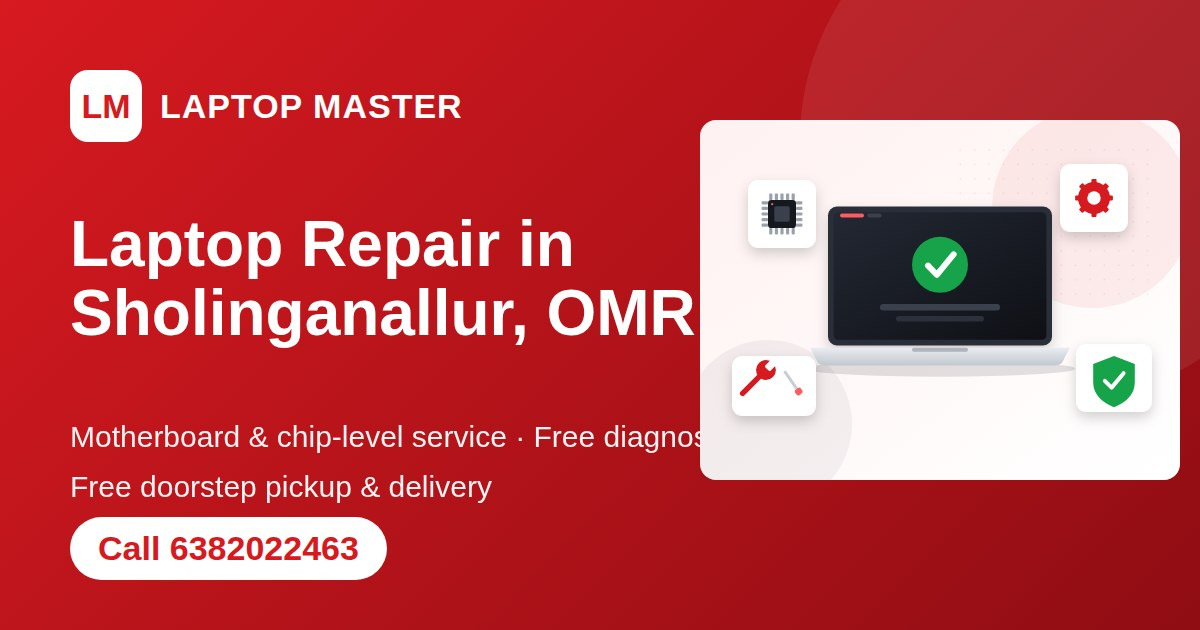
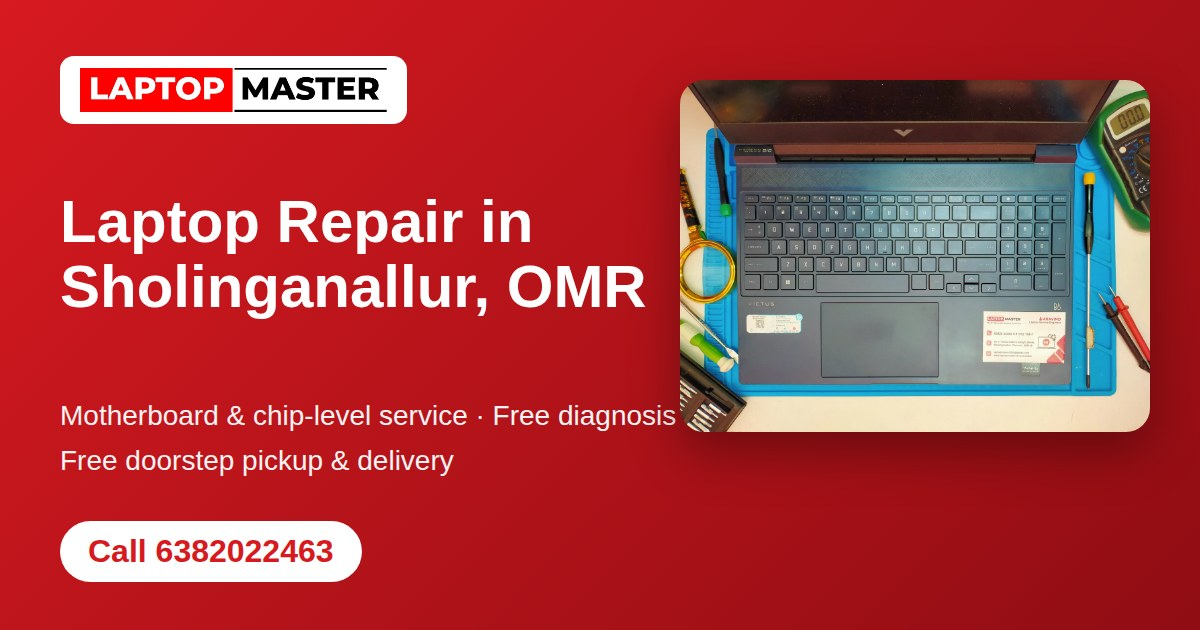
V8.1

diff --git a/index.html b/index.html
@@ -37,7 +37,7 @@
   <meta name="twitter:image" content="https://laptopmasterservice.com/images/og-image.jpg">
 
   <!-- Styles -->
-  <link rel="preload" as="image" href="images/illus-hero.svg" fetchpriority="high">
+  <link rel="preload" as="image" href="images/hero-workbench.webp" fetchpriority="high">
   <link rel="stylesheet" href="style.css">
 
   <!-- Favicon -->
@@ -179,14 +179,7 @@
     <div class="container nav-wrap">
 
       <a class="brand" href="#home" aria-label="LAPTOP MASTER Home">
-
-        <span class="brand-mark">LM</span>
-
-        <span>
-          <strong>LAPTOP MASTER</strong>
-          <small>LAPTOP & COMPUTER SERVICE</small>
-        </span>
-
+        <img class="brand-logo" src="images/logo.webp" alt="LAPTOP MASTER" width="1200" height="172">
       </a>
 
       <button
@@ -323,10 +316,10 @@
         <div class="hero-visual">
 
           <img
-            src="images/illus-hero.svg"
-            alt="Illustration of a repaired laptop with a green check mark, chip, gear and shield icons"
-            width="1200"
-            height="900"
+            src="images/hero-workbench.webp"
+            alt="Laptop opened on the LAPTOP MASTER repair mat with diagnostic tools in Sholinganallur"
+            width="1400"
+            height="1050"
             fetchpriority="high"
             decoding="async"
           >
@@ -981,7 +974,7 @@
           </h2>
 
           <p>
-            Real photos from LAPTOP MASTER showing our shop, laptop repair work and motherboard service.
+            Real photos from our workbench: diagnosis, motherboard testing, SSD and RAM upgrades and screen service.
           </p>
 
         </div>
@@ -990,36 +983,55 @@
         <div class="gallery-grid">
 
           <img
-            src="images/gallery-laptop-repair.webp"
+            src="images/gallery-laptop-internals.webp"
             width="1200"
             height="900"
-            alt="Laptop repair work at LAPTOP MASTER in Sholinganallur"
+            alt="Laptop opened for internal service on the LAPTOP MASTER repair mat"
             loading="lazy"
             decoding="async"
           >
 
           <img
-            src="images/gallery-motherboard.webp"
+            src="images/gallery-motherboard-testing.webp"
             width="1200"
             height="900"
-            alt="Laptop motherboard repair service at LAPTOP MASTER"
-            loading="lazy"
-            decoding="async"
-          >
-          <img
-            src="images/gallery-storefront-services.webp"
-            width="1200"
-            height="900"
-            alt="LAPTOP MASTER shop front listing laptop repair, chip level service, screen, battery, keyboard and data recovery"
+            alt="Motherboard fault testing with a multimeter and magnifier at LAPTOP MASTER"
             loading="lazy"
             decoding="async"
           >
 
           <img
-            src="images/gallery-shop-signboard.webp"
+            src="images/gallery-ssd-upgrade.webp"
             width="1200"
             height="900"
-            alt="LAPTOP MASTER Laptop Service Center signboard on Annai Indhira Gandhi Street, Sholinganallur"
+            alt="Installing a 2.5 inch SATA SSD upgrade in a laptop"
+            loading="lazy"
+            decoding="async"
+          >
+
+          <img
+            src="images/gallery-ram-upgrade.webp"
+            width="1200"
+            height="900"
+            alt="Laptop RAM upgrade being fitted by a LAPTOP MASTER technician"
+            loading="lazy"
+            decoding="async"
+          >
+
+          <img
+            src="images/gallery-screen-service.webp"
+            width="1200"
+            height="900"
+            alt="Laptop display panel removed for screen replacement service"
+            loading="lazy"
+            decoding="async"
+          >
+
+          <img
+            src="images/gallery-chip-level-probe.webp"
+            width="1200"
+            height="900"
+            alt="Chip-level diagnosis on a laptop motherboard with a test probe"
             loading="lazy"
             decoding="async"
           >

diff --git a/laptop-repair-sholinganallur/index.html b/laptop-repair-sholinganallur/index.html
@@ -26,7 +26,7 @@
   <meta name="twitter:description" content="Laptop repair in Sholinganallur, Chennai: motherboard, no power, no display, screen, battery, SSD and RAM. Free diagnosis and estimate. Open daily 9 AM–9 PM.">
   <meta name="twitter:image" content="https://laptopmasterservice.com/images/og-image.jpg">
 
-  <link rel="preload" as="image" href="/images/illus-repair.svg" fetchpriority="high">
+  <link rel="preload" as="image" href="/images/page-shop.webp" fetchpriority="high">
   <link rel="stylesheet" href="/style.css">
   <link rel="icon" href="/images/favicon.svg" type="image/svg+xml">
   <link rel="manifest" href="/site.webmanifest">
@@ -136,11 +136,7 @@
   <header class="site-header">
     <div class="container nav-wrap">
       <a class="brand" href="/" aria-label="LAPTOP MASTER Home">
-        <span class="brand-mark">LM</span>
-        <span>
-          <strong>LAPTOP MASTER</strong>
-          <small>LAPTOP &amp; COMPUTER SERVICE</small>
-        </span>
+        <img class="brand-logo" src="/images/logo.webp" alt="LAPTOP MASTER" width="1200" height="172">
       </a>
 
       <button class="menu-toggle" aria-label="Open menu" aria-expanded="false" aria-controls="site-nav">☰</button>
@@ -172,7 +168,7 @@
           </div>
         </div>
         <div>
-          <img src="/images/illus-repair.svg" width="1200" height="900" alt="Illustration of a laptop being repaired with a wrench and screwdriver" fetchpriority="high" decoding="async">
+          <img src="/images/page-shop.webp" width="1200" height="900" alt="LAPTOP MASTER service counter with the shop logo on a red wall in Sholinganallur" fetchpriority="high" decoding="async">
         </div>
       </div>
     </section>
@@ -222,14 +218,17 @@
     </section>
 
     <section class="section section-light">
-      <div class="container"><div class="prose">
-        <h2>Visit LAPTOP MASTER</h2>
-        <p>No 17 Annai Indhira Gandhi Street, Sholinganallur, Chennai 600119<br>Open daily, 9:00 AM – 9:00 PM</p>
-        <div class="hero-actions">
-          <a class="btn btn-primary" href="https://www.google.com/maps/search/?api=1&query=No+17+Annai+Indhira+Gandhi+Street%2C+Sholinganallur%2C+Chennai+600119" target="_blank" rel="noopener noreferrer">📍 Get Directions</a>
-          <a class="btn btn-outline-dark" href="https://maps.app.goo.gl/npWpCCzaKBLCYPFF9" target="_blank" rel="noopener noreferrer">⭐ See Google Reviews</a>
+      <div class="container visit-grid">
+        <div class="prose">
+          <h2>Visit LAPTOP MASTER</h2>
+          <p>No 17 Annai Indhira Gandhi Street, Sholinganallur, Chennai 600119<br>Open daily, 9:00 AM – 9:00 PM</p>
+          <p>Look for the red LAPTOP MASTER signboard and the free pickup &amp; delivery poster at the entrance.</p>
+          <div class="hero-actions">
+            <a class="btn btn-primary" href="https://www.google.com/maps/search/?api=1&query=No+17+Annai+Indhira+Gandhi+Street%2C+Sholinganallur%2C+Chennai+600119" target="_blank" rel="noopener noreferrer">📍 Get Directions</a>
+            <a class="btn btn-outline-dark" href="https://maps.app.goo.gl/npWpCCzaKBLCYPFF9" target="_blank" rel="noopener noreferrer">⭐ See Google Reviews</a>
+          </div>
         </div>
-      </div>
+        <img src="/images/page-storefront.webp" width="800" height="1283" alt="LAPTOP MASTER shop front with signboard and entrance in Sholinganallur" loading="lazy" decoding="async">
       </div>
     </section>
 

diff --git a/laptop-motherboard-chip-level-repair/index.html b/laptop-motherboard-chip-level-repair/index.html
@@ -26,7 +26,7 @@
   <meta name="twitter:description" content="Laptop motherboard and chip-level repair in Sholinganallur, OMR, Chennai. Component-level diagnosis for no power, charging and no display faults. Free estimate.">
   <meta name="twitter:image" content="https://laptopmasterservice.com/images/og-image.jpg">
 
-  <link rel="preload" as="image" href="/images/illus-motherboard.svg" fetchpriority="high">
+  <link rel="preload" as="image" href="/images/page-motherboard.webp" fetchpriority="high">
   <link rel="stylesheet" href="/style.css">
   <link rel="icon" href="/images/favicon.svg" type="image/svg+xml">
   <link rel="manifest" href="/site.webmanifest">
@@ -136,11 +136,7 @@
   <header class="site-header">
     <div class="container nav-wrap">
       <a class="brand" href="/" aria-label="LAPTOP MASTER Home">
-        <span class="brand-mark">LM</span>
-        <span>
-          <strong>LAPTOP MASTER</strong>
-          <small>LAPTOP &amp; COMPUTER SERVICE</small>
-        </span>
+        <img class="brand-logo" src="/images/logo.webp" alt="LAPTOP MASTER" width="1200" height="172">
       </a>
 
       <button class="menu-toggle" aria-label="Open menu" aria-expanded="false" aria-controls="site-nav">☰</button>
@@ -172,7 +168,7 @@
           </div>
         </div>
         <div>
-          <img src="/images/illus-motherboard.svg" width="1200" height="900" alt="Illustration of a laptop motherboard with a central chip and circuit traces" fetchpriority="high" decoding="async">
+          <img src="/images/page-motherboard.webp" width="1200" height="900" alt="Laptop motherboard being tested with a multimeter at LAPTOP MASTER" fetchpriority="high" decoding="async">
         </div>
       </div>
     </section>

diff --git a/laptop-not-turning-on-no-display-repair/index.html b/laptop-not-turning-on-no-display-repair/index.html
@@ -26,7 +26,7 @@
   <meta name="twitter:description" content="Laptop not turning on or no display? LAPTOP MASTER in Sholinganallur diagnoses power, charging, display and motherboard faults. Free diagnosis and estimate.">
   <meta name="twitter:image" content="https://laptopmasterservice.com/images/og-image.jpg">
 
-  <link rel="preload" as="image" href="/images/illus-power.svg" fetchpriority="high">
+  <link rel="preload" as="image" href="/images/page-nodisplay.webp" fetchpriority="high">
   <link rel="stylesheet" href="/style.css">
   <link rel="icon" href="/images/favicon.svg" type="image/svg+xml">
   <link rel="manifest" href="/site.webmanifest">
@@ -136,11 +136,7 @@
   <header class="site-header">
     <div class="container nav-wrap">
       <a class="brand" href="/" aria-label="LAPTOP MASTER Home">
-        <span class="brand-mark">LM</span>
-        <span>
-          <strong>LAPTOP MASTER</strong>
-          <small>LAPTOP &amp; COMPUTER SERVICE</small>
-        </span>
+        <img class="brand-logo" src="/images/logo.webp" alt="LAPTOP MASTER" width="1200" height="172">
       </a>
 
       <button class="menu-toggle" aria-label="Open menu" aria-expanded="false" aria-controls="site-nav">☰</button>
@@ -172,7 +168,7 @@
           </div>
         </div>
         <div>
-          <img src="/images/illus-power.svg" width="1200" height="900" alt="Illustration of a laptop with a black screen and a power button symbol" fetchpriority="high" decoding="async">
+          <img src="/images/page-nodisplay.webp" width="1200" height="900" alt="Technician inspecting a laptop with a black screen using a magnifier" fetchpriority="high" decoding="async">
         </div>
       </div>
     </section>

diff --git a/laptop-pickup-delivery-omr/index.html b/laptop-pickup-delivery-omr/index.html
@@ -26,7 +26,7 @@
   <meta name="twitter:description" content="Free doorstep laptop pickup and delivery within 10–15 km of Sholinganallur, OMR, Chennai. Free diagnosis and estimate. WhatsApp your location to book.">
   <meta name="twitter:image" content="https://laptopmasterservice.com/images/og-image.jpg">
 
-  <link rel="preload" as="image" href="/images/illus-pickup.svg" fetchpriority="high">
+  <link rel="preload" as="image" href="/images/page-pickup.webp" fetchpriority="high">
   <link rel="stylesheet" href="/style.css">
   <link rel="icon" href="/images/favicon.svg" type="image/svg+xml">
   <link rel="manifest" href="/site.webmanifest">
@@ -136,11 +136,7 @@
   <header class="site-header">
     <div class="container nav-wrap">
       <a class="brand" href="/" aria-label="LAPTOP MASTER Home">
-        <span class="brand-mark">LM</span>
-        <span>
-          <strong>LAPTOP MASTER</strong>
-          <small>LAPTOP &amp; COMPUTER SERVICE</small>
-        </span>
+        <img class="brand-logo" src="/images/logo.webp" alt="LAPTOP MASTER" width="1200" height="172">
       </a>
 
       <button class="menu-toggle" aria-label="Open menu" aria-expanded="false" aria-controls="site-nav">☰</button>
@@ -172,7 +168,7 @@
           </div>
         </div>
         <div>
-          <img src="/images/illus-pickup.svg" width="1200" height="900" alt="Illustration of a delivery van taking a laptop from a home to the LAPTOP MASTER shop" fetchpriority="high" decoding="async">
+          <img src="/images/page-pickup.webp" width="1200" height="750" alt="LAPTOP MASTER free doorstep pick-up and delivery banner" fetchpriority="high" decoding="async">
         </div>
       </div>
     </section>

diff --git a/style.css b/style.css
@@ -2640,3 +2640,13 @@ button:focus-visible {
 .page-hero img[src$=".svg"] { box-shadow: none; border-radius: 0; }
 .hero-visual img[src$=".svg"] { background: transparent; box-shadow: none; border-radius: 0; }
 .faq-left .faq-grid { max-width: none; margin-left: 0; margin-right: 0; }
+
+/* V2.9 prep - real photos + logo */
+.brand-logo { height: 34px; width: auto; display: block; }
+@media (max-width: 600px) { .brand-logo { height: 28px; } }
+.gallery-grid { grid-template-columns: repeat(3, 1fr); }
+@media (max-width: 900px) { .gallery-grid { grid-template-columns: 1fr 1fr; } }
+@media (max-width: 600px) { .gallery-grid { grid-template-columns: 1fr; } }
+.visit-grid { display: grid; grid-template-columns: 1fr 340px; gap: 44px; align-items: center; }
+.visit-grid img { width: 100%; height: auto; border-radius: 20px; box-shadow: var(--shadow); }
+@media (max-width: 800px) { .visit-grid { grid-template-columns: 1fr; } .visit-grid img { max-width: 320px; } }

diff --git a/README.md b/README.md
@@ -1,4 +1,4 @@
-# LAPTOP MASTER - V2.8 (Illustrations, alignment, go-live prep)
+# LAPTOP MASTER - V2.8.1 (Real photos + logo)
 
 Static website for LAPTOP MASTER, Sholinganallur, Chennai. Hosted on GitHub + Cloudflare Pages.
 
@@ -53,3 +53,8 @@ Keep original large photos on your own computer, not in this repo.
 2. If the domain is NOT laptopmasterservice.com, replace it everywhere in the files.
 3. Add the website to Google Business Profile.
 4. Add the site in Google Search Console and submit sitemap.xml.
+
+## V2.8.1 updates
+- Real photos and your own LAPTOP MASTER logo and designed banner now used across the site.
+- Illustrations removed. Homepage gallery = 6 real workbench photos.
+- Header shows the logo image. New share card built from real photo + logo.
